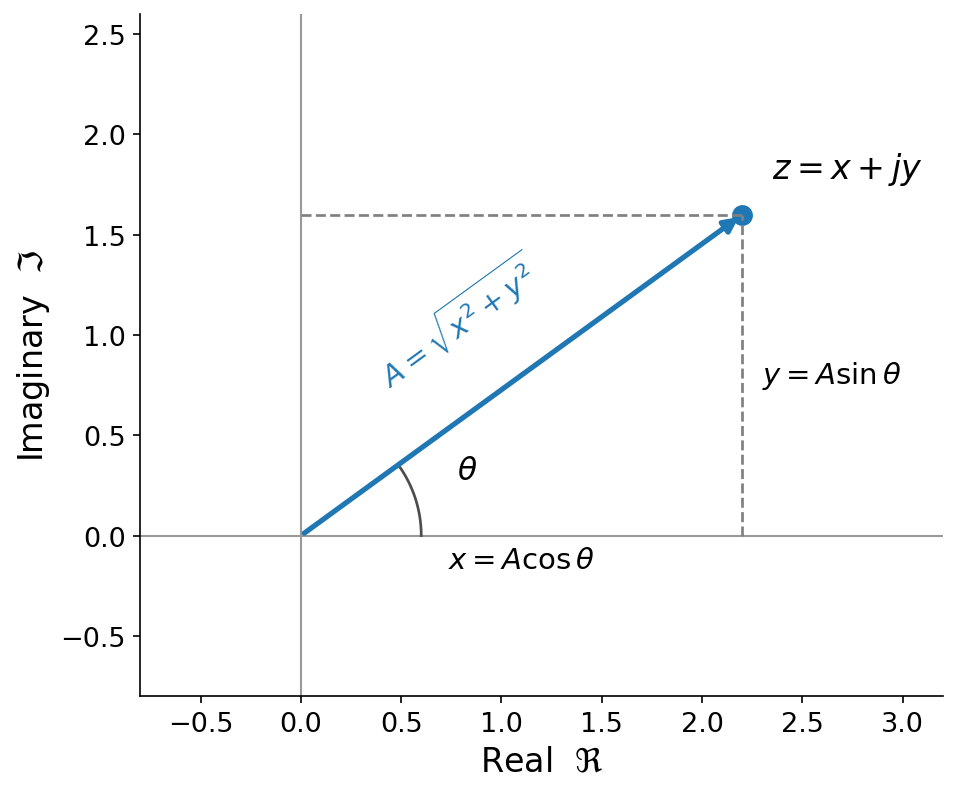
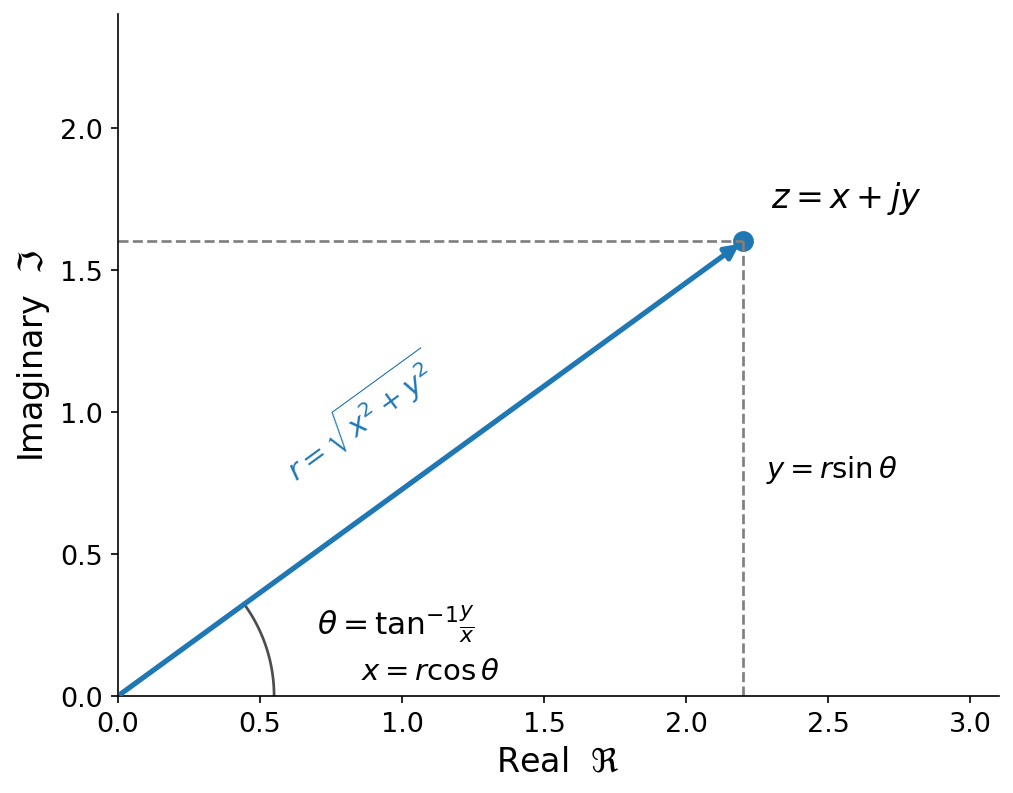
(Claude) addressing comments

diff --git a/5-frequency-domain/figures/make_figures.py b/5-frequency-domain/figures/make_figures.py
@@ -96,7 +96,7 @@ def fig_time_vs_freq() -> None:
     plt.setp(baseline, color="0.7", linewidth=1.0)
     ax_f.set_xlabel("Frequency (Hz)")
     ax_f.set_ylabel("Amplitude")
-    ax_f.set_xlim(0, 8000)
+    ax_f.set_xlim(0, 2000)
     ax_f.set_ylim(0, 1.1)
 
     save_fig("fig-time-vs-freq.png")
@@ -112,29 +112,54 @@ def fig_waveform_spectra() -> None:
     k = np.arange(1, K + 1)
     odd = k % 2 == 1
 
+    # Signed Fourier coefficients so the time-domain shapes are recognizable.
     saw = 1.0 / k
     square = np.where(odd, 1.0 / k, 0.0)
-    triangle = np.where(odd, 1.0 / k**2, 0.0)
+    triangle = np.where(odd, ((-1.0) ** ((k - 1) // 2)) / k**2, 0.0)
+    specs = [("Sawtooth", saw), ("Square", square), ("Triangle", triangle)]
 
-    fig, axes = plt.subplots(1, 3, figsize=(14, 3.6), sharey=True)
-    specs = [
-        ("Sawtooth", saw),
-        ("Square", square),
-        ("Triangle", triangle),
-    ]
-    for ax, (label, amps) in zip(axes, specs):
-        freqs = k * F0
+    # Two periods of each waveform, reconstructed from its harmonics.
+    t = np.linspace(0, 2.0 / F0, 1000)
+
+    fig, axes = plt.subplots(2, 3, figsize=(14, 6.2))
+    for col, (label, coeffs) in enumerate(specs):
+        # Top row: time domain.
+        ax_t = axes[0, col]
+        x = np.zeros_like(t)
+        for ki, c in zip(k, coeffs):
+            x += c * np.sin(2 * np.pi * ki * F0 * t)
+        x /= np.max(np.abs(x))
+        ax_t.plot(t * 1000, x, color=COLORS[0])
+        ax_t.set_xlim(0, t[-1] * 1000)
+        ax_t.set_ylim(-1.2, 1.2)
+        ax_t.text(0.5, 1.06, label, transform=ax_t.transAxes, ha="center",
+                  va="bottom", fontsize=15, fontweight="bold")
+        if col == 0:
+            ax_t.set_ylabel("Amplitude")
+
+        # Bottom row: frequency domain (amplitude spectrum).
+        ax_f = axes[1, col]
+        amps = np.abs(coeffs)
         amps = amps / amps.max()
-        markerline, stemlines, baseline = ax.stem(freqs, amps)
+        markerline, stemlines, baseline = ax_f.stem(k * F0, amps)
         plt.setp(markerline, color=COLORS[1], markersize=5)
         plt.setp(stemlines, color=COLORS[1])
         plt.setp(baseline, color="0.7", linewidth=1.0)
-        ax.set_xlabel("Frequency (Hz)")
-        ax.set_xlim(0, K * F0)
-        ax.set_ylim(0, 1.1)
-        ax.text(0.95, 0.9, label, transform=ax.transAxes, ha="right",
-                va="top", fontsize=15, fontweight="bold")
-    axes[0].set_ylabel("Amplitude (norm.)")
+        ax_f.set_xlabel("Frequency (Hz)")
+        ax_f.set_xlim(0, K * F0)
+        ax_f.set_ylim(0, 1.1)
+        if col == 0:
+            ax_f.set_ylabel("Amplitude (norm.)")
+
+    axes[0, 0].text(-0.32, 0.5, "Time domain", transform=axes[0, 0].transAxes,
+                    rotation=90, va="center", ha="center", fontsize=13,
+                    color="0.4")
+    axes[1, 0].text(-0.32, 0.5, "Frequency domain",
+                    transform=axes[1, 0].transAxes, rotation=90, va="center",
+                    ha="center", fontsize=13, color="0.4")
+    axes[0, 0].set_xlabel("Time (ms)")
+    axes[0, 1].set_xlabel("Time (ms)")
+    axes[0, 2].set_xlabel("Time (ms)")
     save_fig("fig-waveform-spectra.png")
 
 
@@ -147,43 +172,39 @@ def fig_complex_plane() -> None:
     fig, ax = plt.subplots(figsize=(7.5, 5.5))
 
     x, y = 2.2, 1.6
-    A = np.hypot(x, y)
     theta = np.arctan2(y, x)
-
-    # Axes through origin.
-    ax.axhline(0, color="0.6", linewidth=1.0)
-    ax.axvline(0, color="0.6", linewidth=1.0)
 
     # Vector to z.
     ax.annotate("", xy=(x, y), xytext=(0, 0),
                 arrowprops=dict(arrowstyle="-|>", color=COLORS[0], lw=2.5))
     ax.plot([x], [y], "o", color=COLORS[0], markersize=9)
-    ax.annotate(r"$z = x + jy$", xy=(x, y), xytext=(x + 0.15, y + 0.18),
+    ax.annotate(r"$z = x + jy$", xy=(x, y), xytext=(x + 0.1, y + 0.12),
                 fontsize=16)
 
     # Projections.
     ax.plot([x, x], [0, y], "--", color="0.5", linewidth=1.3)
     ax.plot([0, x], [y, y], "--", color="0.5", linewidth=1.3)
-    ax.annotate(r"$x = A\cos\theta$", xy=(x / 2, -0.05), ha="center",
-                va="top", fontsize=14)
-    ax.annotate(r"$y = A\sin\theta$", xy=(x + 0.1, y / 2), ha="left",
+    ax.annotate(r"$x = r\cos\theta$", xy=(x / 2, 0.04), ha="center",
+                va="bottom", fontsize=14)
+    ax.annotate(r"$y = r\sin\theta$", xy=(x + 0.08, y / 2), ha="left",
                 va="center", fontsize=14)
 
     # Magnitude label along the vector.
-    ax.annotate(r"$A = \sqrt{x^2 + y^2}$", xy=(x / 2 - 0.25, y / 2 + 0.18),
+    ax.annotate(r"$r = \sqrt{x^2 + y^2}$", xy=(x / 2 - 0.2, y / 2 + 0.12),
                 ha="center", va="bottom", fontsize=14, rotation=np.degrees(theta),
                 rotation_mode="anchor", color=COLORS[0])
 
-    # Angle arc.
+    # Angle arc and its definition.
     arc = np.linspace(0, theta, 40)
-    r = 0.6
-    ax.plot(r * np.cos(arc), r * np.sin(arc), color="0.3", linewidth=1.3)
-    ax.annotate(r"$\theta$", xy=(0.78, 0.28), fontsize=15)
+    rad = 0.55
+    ax.plot(rad * np.cos(arc), rad * np.sin(arc), color="0.3", linewidth=1.3)
+    ax.annotate(r"$\theta = \tan^{-1}\!\frac{y}{x}$", xy=(0.7, 0.22),
+                fontsize=15)
 
     ax.set_xlabel(r"Real  $\Re$")
     ax.set_ylabel(r"Imaginary  $\Im$")
-    ax.set_xlim(-0.8, 3.2)
-    ax.set_ylim(-0.8, 2.6)
+    ax.set_xlim(0, 3.1)
+    ax.set_ylim(0, 2.4)
     ax.set_aspect("equal")
     save_fig("fig-complex-plane.png")
 
@@ -210,10 +231,10 @@ def fig_phasor() -> None:
               color=COLORS[2], lw=1.5)
     ax_c.plot([0, np.cos(theta)], [np.sin(theta), np.sin(theta)], "--",
               color=COLORS[3], lw=1.5)
-    ax_c.annotate(r"$Ae^{j\omega t}$", xy=(np.cos(theta), np.sin(theta)),
+    ax_c.annotate(r"$ae^{j\omega t}$", xy=(np.cos(theta), np.sin(theta)),
                   xytext=(-1.15, 1.05), fontsize=15, color=COLORS[0])
-    ax_c.set_xlabel(r"Real $= A\cos(\omega t)$")
-    ax_c.set_ylabel(r"Imaginary $= A\sin(\omega t)$")
+    ax_c.set_xlabel(r"Real $= a\cos(\omega t)$")
+    ax_c.set_ylabel(r"Imaginary $= a\sin(\omega t)$")
     ax_c.set_xlim(-1.3, 1.3)
     ax_c.set_ylim(-1.3, 1.3)
     ax_c.set_aspect("equal")

diff --git a/5-frequency-domain/index.md b/5-frequency-domain/index.md
@@ -32,23 +32,24 @@ The key insight is that **the coefficients of additive synthesis already answer 
 The same sound in two domains. Left: the time-domain waveform $x(t)$, dense and continuous. Right: the frequency-domain amplitude $|X(f)|$, sparse and discontinuous, with a spike at each harmonic.
 :::
 
-EDIT: Add a formalization of |X(f)| for additive synthesis here, as a conditionally-defined function. "More formally, ...". Also, in the figure above, rescale frequency axis from 0 to 2000 instead of 0 to 8000
+More formally, the amplitude spectrum of an additively synthesized tone is zero at every frequency except the harmonics, where it takes the value of the corresponding amplitude coefficient:
+
+$$
+|X(f)| = \begin{cases}
+a_k & \text{if } f = k \cdot f_0 \text{ for some } k \in \{1, 2, \ldots, K\}, \\
+0 & \text{otherwise.}
+\end{cases}
+$$
+
+This reveals a key contrast between the two domains. While the time-domain waveform is dense and continuous, the frequency-domain representation is **sparse and discontinuous**: almost every frequency has amplitude zero, with energy concentrated into infinitesimally narrow "spikes" at integer multiples of $f_0$. Those spikes still encode almost the entire recipe: the fundamental $f_0$ (their spacing), the number of harmonics $K$ (their count), and the amplitudes $\mathbf{a}$ (their heights). The one ingredient they discard is the _initial phases_ $\boldsymbol{\phi}$. That loss is acceptable for now because, as we saw in Chapter 3, our ear is largely insensitive to phase. We will return to where the phase information goes later in this chapter.
 
 :::{audio}
 [The four-harmonic recipe](./assets/audio-recipe.wav)
 
-The tone whose two representations are shown above. The full figure code is in [figures/make_figures.py](./figures/make_figures.py).
+The tone whose two representations are shown above, included as a reminder of what this recipe sounds like.
 :::
 
-EDIT: Never reference code in ./figures! How many times do I have to say it in AGENTS.md? I don't think we really need the code here at all, it's just a reminder of what this sounds like.
-
-Notice the contrast between the two views. While the time-domain representation is dense and continuous, the frequency-domain representation is **sparse and discontinuous**. Nearly all of the infinitely many possible frequencies have amplitude zero in this recipe, except for infinitesimally narrow "spikes" at integer multiples of $f_0$, whose heights are exactly the amplitude coefficients.
-
-Notice also that almost all of the information in the additive synthesis recipe survives in this picture: the fundamental $f_0$ (the spacing of the spikes), the number of harmonics $K$ (the count of spikes), and the amplitudes $\mathbf{a}$ (the heights). What is missing? The _initial phases_ $\boldsymbol{\phi}$. The amplitude spectrum discards them. This is acceptable for now because, as we saw in Chapter 3, our ear is largely insensitive to phase. We will return to where the phase information goes later in this chapter.
-
-EDIT: Merge the above paragraph with the formalization I asked you to introduce above. Otherwise it feels a bit redundant
-
-This is our first look at sound in the frequency domain. To reinforce it, consider the basic waveform shapes from Chapter 3, now viewed through this lens. Each is just a particular pattern of harmonic amplitudes, so each has a particular frequency-domain fingerprint:
+To reinforce this new perspective, consider the basic waveform shapes from Chapter 3, now viewed through the same lens. Each is just a particular pattern of harmonic amplitudes, so each has a distinctive frequency-domain fingerprint:
 
 :::{audio-board}
 {audio}`Sawtooth <./assets/audio-saw.wav>`
@@ -57,11 +58,9 @@ This is our first look at sound in the frequency domain. To reinforce it, consid
 
 {audio}`Triangle <./assets/audio-triangle.wav>`
 
-![Three stem plots side by side: sawtooth with all harmonics decaying as 1/k, square with only odd harmonics decaying as 1/k, and triangle with only odd harmonics decaying as 1/k squared.](./assets/fig-waveform-spectra.png)
+![A two-by-three grid. Top row: the time-domain waveforms of a sawtooth, square, and triangle wave. Bottom row: their amplitude spectra as stem plots — sawtooth with all harmonics decaying as 1/k, square with only odd harmonics decaying as 1/k, and triangle with only odd harmonics decaying as 1/k squared.](./assets/fig-waveform-spectra.png)
 
-EDIT: Also include the corresponding time domain views for each of these!
-
-The sawtooth, square, and triangle waves in the frequency domain (amplitudes normalized so the fundamental is 1). The sawtooth contains all harmonics ($a_k \propto 1/k$), while the square and triangle contain only odd harmonics ($1/k$ and $1/k^2$ respectively). These spectra are just the amplitude patterns from Chapter 3, plotted against frequency.
+The sawtooth, square, and triangle waves in both domains. Top: the familiar time-domain shapes. Bottom: their amplitude spectra (normalized so the fundamental is 1). The sawtooth contains all harmonics ($a_k \propto 1/k$), while the square and triangle contain only odd harmonics ($1/k$ and $1/k^2$ respectively). Each shape's character comes entirely from its pattern of harmonic amplitudes.
 :::
 
 There is a catch. We could draw these frequency-domain plots only because we already had access to the sound-producing algorithm (additive synthesis) and its recipe (the coefficients). What if you were handed a sound for which you knew _nothing_ about how it was made?
@@ -80,61 +79,65 @@ This book assumes complex numbers as background knowledge, but we revisit the es
 In this book, prefer to think of $j$ as an _analytical tool_ for better understanding real-valued signals, rather than as an "imaginary number". This framing demystifies much of what follows.
 :::
 
-EDIT: Is Cartesian form more conventional? Or should I say rectangular instead?
-
-We write the imaginary unit as $j = \sqrt{-1}$, rather than $i$, following the convention in engineering and digital signal processing (where $i$ often denotes other quantities). A complex number $z$ can be written in {vocab}`Cartesian form` as
+We write the imaginary unit as $j = \sqrt{-1}$, rather than $i$, following the convention in engineering and digital signal processing (where $i$ often denotes other quantities, such as electric current). A complex number $z$ can be written in {vocab}`rectangular form` (also called _Cartesian form_) as a pair of real coordinates $(x, y)$:
 
 $$z = x + jy,$$
 
-representing a pair of coordinates $(x, y)$ where $x$ is the real part and $y$ is the imaginary part.
+where $x$ is the real part and $y$ is the imaginary part.
 
-EDIT: The below is a bit confusing. maybe need to define $z_1$ and $z_2$ first to make it more clear? also, would be useful to hold students hand a little bit more line-by-line through the distribution in the multiplication example. It would be good to put both in directives, so it's easier for studnts to find the rules.
+Two complex numbers in rectangular form are added componentwise, and multiplied using the single rule $j^2 = -1$. We collect both operations here for reference:
 
-Addition is componentwise, $(x_1 + jy_1) + (x_2 + jy_2) = (x_1 + x_2) + j(y_1 + y_2)$, and multiplication follows from the single rule $j^2 = -1$:
+:::{prf:definition} Complex addition and multiplication (rectangular form)
+:label: def-complex-arithmetic
+For $z_1 = x_1 + j y_1$ and $z_2 = x_2 + j y_2$,
 
-$$(x_1 + jy_1)(x_2 + jy_2) = (x_1 x_2 - y_1 y_2) + j(x_1 y_2 + x_2 y_1).$$
+$$z_1 + z_2 = (x_1 + x_2) + j(y_1 + y_2),$$
 
-EDIT: Let's use $r$ for magnitude until we're actually talking about, following more typical conventions
+$$z_1 \cdot z_2 = (x_1 x_2 - y_1 y_2) + j(x_1 y_2 + x_2 y_1).$$
+:::
 
-A complex number can equivalently be written in {vocab}`polar form` by its magnitude $A$ and angle $\theta$. The two forms are related by basic trigonometry:
+Addition simply adds the real and imaginary parts separately. The multiplication rule looks more involved, but it follows from expanding the product like any pair of binomials and then applying $j^2 = -1$:
 
-EDIT: might make sense to also refer to this as a pair fo coorcdinates $(r, \theta)$ above? not sure... only if this is conventional. it's possible that it's confusing or unconventional for cartesian and polar to both be pairs of coordinates
+$$
+\begin{aligned}
+z_1 \cdot z_2 &= (x_1 + j y_1)(x_2 + j y_2) \\
+&= x_1 x_2 + j x_1 y_2 + j y_1 x_2 + j^2 y_1 y_2 \\
+&= x_1 x_2 + j x_1 y_2 + j y_1 x_2 - y_1 y_2 && (j^2 = -1) \\
+&= (x_1 x_2 - y_1 y_2) + j(x_1 y_2 + x_2 y_1).
+\end{aligned}
+$$
+
+A complex number can equivalently be written in {vocab}`polar form` as a pair $(r, \theta)$, giving its magnitude (distance from the origin) $r$ and its angle $\theta$ from the real axis. Rectangular and polar are just two coordinate systems for the same point, related by basic trigonometry:
 
 :::{figure}
-![A complex number z = x + jy plotted as a point in the plane, with the real axis horizontal and the imaginary axis vertical. A vector from the origin to z has length A and makes angle theta with the real axis. Dashed lines show the projections x = A cos theta and y = A sin theta.](./assets/fig-complex-plane.png)
+![A complex number z = x + jy plotted as a point in the first quadrant, with the real axis horizontal and the imaginary axis vertical. A vector from the origin to z has length r and makes angle theta with the real axis. Dashed lines show the projections x = r cos theta and y = r sin theta.](./assets/fig-complex-plane.png)
 
-EDIT: This figure is a bit messed up. xlim and ylim should not go into negatives, just the upper right quadrant of the cartesian plane. also, may as well put in the definition for \theta = \tan^{-1} ... as well
-
-A complex number $z$ in the complex plane. Cartesian form $(x, y)$ gives its horizontal and vertical coordinates. Polar form $(A, \theta)$ gives its distance from the origin and its angle from the real axis.
+A complex number $z$ in the complex plane. Rectangular form $(x, y)$ gives its horizontal and vertical coordinates. Polar form $(r, \theta)$ gives its distance from the origin and its angle from the real axis.
 :::
 
 $$
-A = \sqrt{x^2 + y^2}, \qquad
+r = \sqrt{x^2 + y^2}, \qquad
 \theta = \tan^{-1}\!\left(\frac{y}{x}\right),
 $$
 
 and in the other direction,
 
 $$
-x = A\cos\theta, \qquad
-y = A\sin\theta.
+x = r\cos\theta, \qquad
+y = r\sin\theta.
 $$
 
-Polar form is especially convenient for multiplication. When two complex numbers are multiplied, **their magnitudes multiply and their angles add**:
+Polar form is especially convenient for multiplication, where **magnitudes multiply and angles add**. For $z_1 = (r_1, \theta_1)$ and $z_2 = (r_2, \theta_2)$ in polar form,
 
-$$
-(A_1, \theta_1) \cdot (A_2, \theta_2) = (A_1 A_2, \; \theta_1 + \theta_2).
-$$
-
-EDIT: Similar comment here, if $z_1 = (r_1, \theta_1)$ and $z_2 = (r_2, \theta_2)$, then show how they multiply $z_1 \cdot z_2$. the coefficients are confusing if not first grounded as complex numbers!
+$$z_1 \cdot z_2 = (r_1 r_2, \; \theta_1 + \theta_2).$$
 
 This is the precise sense in which multiplication models rotation: multiplying by a number of magnitude 1 and angle $\theta$ rotates a point by $\theta$ without changing its distance from the origin. Hold onto this idea, as it is the engine of everything that follows.
 
-Finally, polar form connects to the Cartesian form through one of the most important identities in all of mathematics, {vocab}`Euler's formula`:
+Finally, polar form connects back to rectangular form through one of the most important identities in all of mathematics, {vocab}`Euler's formula`:
 
 $$e^{j\theta} = \cos\theta + j\sin\theta.$$
 
-Reading it as a complex number, $e^{j\theta}$ has real part $\cos\theta$ and imaginary part $\sin\theta$, so it is exactly the point on the unit circle at angle $\theta$. A general complex number in polar form is therefore $z = A e^{j\theta}$.
+Reading it as a complex number, $e^{j\theta}$ has real part $\cos\theta$ and imaginary part $\sin\theta$, so it is exactly the point on the unit circle at angle $\theta$. A general complex number in polar form is therefore $z = r e^{j\theta}$.
 
 ## The phasor
 
@@ -171,11 +174,11 @@ What does a complex sinusoid look like? It is a vector of length $a$ that rotate
 A complex sinusoid, or _phasor_, $a\, e^{j\omega t}$ at one instant (here $a = 1$). Left: in the complex plane it is a rotating vector. Middle and right: its real and imaginary parts, projected out over time, are a cosine and a sine. The phasor completes one full rotation every $1/f$ seconds, where $f = \omega / 2\pi$.
 :::
 
-A complex sinusoid is very commonly called a {vocab}`phasor`. Plainly, a phasor is just a fancy way to draw a circle over and over. We can define it as a function
+A complex sinusoid is very commonly called a {vocab}`phasor`. Plainly, a phasor is just a fancy way to draw a circle over and over. We can define it as a function of time, parameterized by its amplitude $a$ and angular frequency $\omega$:
 
-$$\text{phasor}(t) = a\, e^{j\omega t} : \mathbb{R} \to \mathbb{C}.$$
+$$\text{phasor}_{a, \omega}(t) = a\, e^{j\omega t} : \mathbb{R} \to \mathbb{C}.$$
 
-EDIT: shouldn't this also be a function of $\omega$? like $\text{phasor}_{\omega}(t)$ or something?
+The subscripts $a$ and $\omega$ are fixed parameters that pick out _which_ phasor we mean, exactly as $a$ and $f$ parameterize the basic sinusoid. The lone input to the function is still time $t$.
 
 :::{important}
 Like the basic sinusoid, a phasor is a function of _time_, not of frequency. The only difference is that it rotates in the complex plane rather than oscillating along a single real axis.
@@ -207,7 +210,7 @@ At last, a function of _frequency_. Frequency is the input, and the output is a 
 Calculus is not a focus of this book. The Fourier transform does contain an integral, but you will not be asked to work through tricky integration here. Later, we will derive a _discrete_ version of the transform that replaces the integral with a finite sum, turning it into a concrete computational tool rather than a mathematical one.
 :::
 
-EDIT: Need a little more info here. Draw the connection with the last section, namely, that a central operating principle of the Fourier transform is multiplying (rotating) the sound $x(t)$ by a phasor at frequency $\omega$.
+This definition is the direct payoff of the previous section. Look closely at the integrand: the term $e^{-j\omega t}$ is a phasor at frequency $\omega$, rotating clockwise (the minus sign reverses the direction). The transform **multiplies the sound $x(t)$ by this phasor**, rotating the signal in the complex plane, and then integrates the result over all time. That multiply-by-a-phasor step is the central operating principle of the Fourier transform, and it is why we spent so long building up the complex sinusoid. We will develop the intuition for why this isolates the amount of frequency $\omega$ shortly. First, let us rewrite the transform in a more concrete form.
 
 Although $X(\omega)$ is complex, we can split it into two real-valued integrals using Euler's formula. Since $e^{-j\omega t} = \cos(\omega t) - j\sin(\omega t)$,
 
@@ -229,7 +232,7 @@ That is the full definition. It probably still feels mysterious, which is comple
 
 Our goal at the start of the chapter was to answer the question "how much of a given frequency is present in some unknown sound?" The Fourier transform almost gives us this, but its output is a complex number rather than a plain amplitude. How do we extract the amplitude?
 
-The answer is simple: convert from Cartesian to polar form. The magnitude of $X(\omega)$ is the amplitude at frequency $\omega$, and its angle is the phase. These define the {vocab}`amplitude spectrum` and {vocab}`phase spectrum`:
+The answer is simple: convert from rectangular to polar form. The magnitude of $X(\omega)$ is the amplitude at frequency $\omega$, and its angle is the phase. These define the {vocab}`amplitude spectrum` and {vocab}`phase spectrum`:
 
 $$
 |X(\omega)| = \sqrt{R^2(\omega) + I^2(\omega)},
@@ -251,9 +254,11 @@ An amplitude spectrum of a rich musical tone, displayed the way a DAW spectrum a
 
 ## What is the Fourier transform doing?
 
-The definition of the Fourier transform above can feel like it appears out of nowhere. That is okay. Let us unpack it more intuitively, in the spirit of [this 3Blue1Brown video](https://www.youtube.com/watch?v=spUNpyF58BY).
+:::{margin}
+The intuition presented here was largely inspired by [this excellent 3Blue1Brown video](https://www.youtube.com/watch?v=spUNpyF58BY).
+:::
 
-EDIT: Make the reference to the 3blue1brown video a margin note instead. The intuition presented here was largely inspired by ...
+The definition of the Fourier transform above can feel like it appears out of nowhere. That is okay. Let us unpack it more intuitively.
 
 How can a single integral possibly pick out the amount of one specific frequency $\omega$ hiding inside an arbitrary signal? Look again at the transform, $X(\omega) = \int x(t)\, e^{-j\omega t}\, dt$, and read it in three steps:
 
@@ -290,7 +295,7 @@ In the coming chapters, we will resolve each of these. We will derive the _discr
 
 - The {vocab}`frequency domain` describes a sound by how much of each frequency it contains, complementing the {vocab}`time domain` waveform $x(t)$.
 - For additive synthesis, the frequency-domain amplitude is read directly off the recipe: a spike of height $a_k$ at each harmonic frequency $k \cdot f_0$. The time domain is dense and continuous, while the frequency domain is sparse and discontinuous.
-- The complex plane is an analytical tool for periodic phenomena. A complex number has a {vocab}`Cartesian form` $z = x + jy$ and a {vocab}`polar form` $z = A e^{j\theta}$. Under multiplication, magnitudes multiply and angles add, so multiplication models rotation. {vocab}`Euler's formula` $e^{j\theta} = \cos\theta + j\sin\theta$ links the two forms.
+- The complex plane is an analytical tool for periodic phenomena. A complex number has a {vocab}`rectangular form` $z = x + jy$ and a {vocab}`polar form` $z = r e^{j\theta}$. Under multiplication, magnitudes multiply and angles add, so multiplication models rotation. {vocab}`Euler's formula` $e^{j\theta} = \cos\theta + j\sin\theta$ links the two forms.
 - A {vocab}`complex sinusoid` or {vocab}`phasor` $a\, e^{j\omega t} : \mathbb{R} \to \mathbb{C}$ is a rotating vector whose real and imaginary parts are a cosine and a sine. It is a function of time, and it is the central building block of frequency analysis.
 - The {vocab}`Fourier transform` $X(\omega) = \int_{-\infty}^{\infty} x(t)\, e^{-j\omega t}\, dt : \mathbb{R} \to \mathbb{C}$ is a function of frequency. It probes a signal with a phasor at each frequency, multiplies to measure similarity, and integrates over time.
 - Converting the complex output to polar form gives the real-valued {vocab}`amplitude spectrum` $|X(\omega)|$ and {vocab}`phase spectrum` $\angle X(\omega)$. Because the ear is largely insensitive to phase, the amplitude spectrum is the more commonly used.
@@ -303,7 +308,7 @@ In the coming chapters, we will resolve each of these. We will derive the _discr
 :::
 
 :::{exercise}
-**Cartesian and polar.** Consider the complex number $z = 1 + j\sqrt{3}$. Find its magnitude $A$ and angle $\theta$, and write it in polar form $A e^{j\theta}$. Then, using the rule that magnitudes multiply and angles add, compute $z^2$ in polar form and convert back to Cartesian form.
+**Rectangular and polar.** Consider the complex number $z = 1 + j\sqrt{3}$. Find its magnitude $r$ and angle $\theta$, and write it in polar form $r e^{j\theta}$. Then, using the rule that magnitudes multiply and angles add, compute $z^2$ in polar form and convert back to rectangular form.
 :::
 
 :::{exercise}
